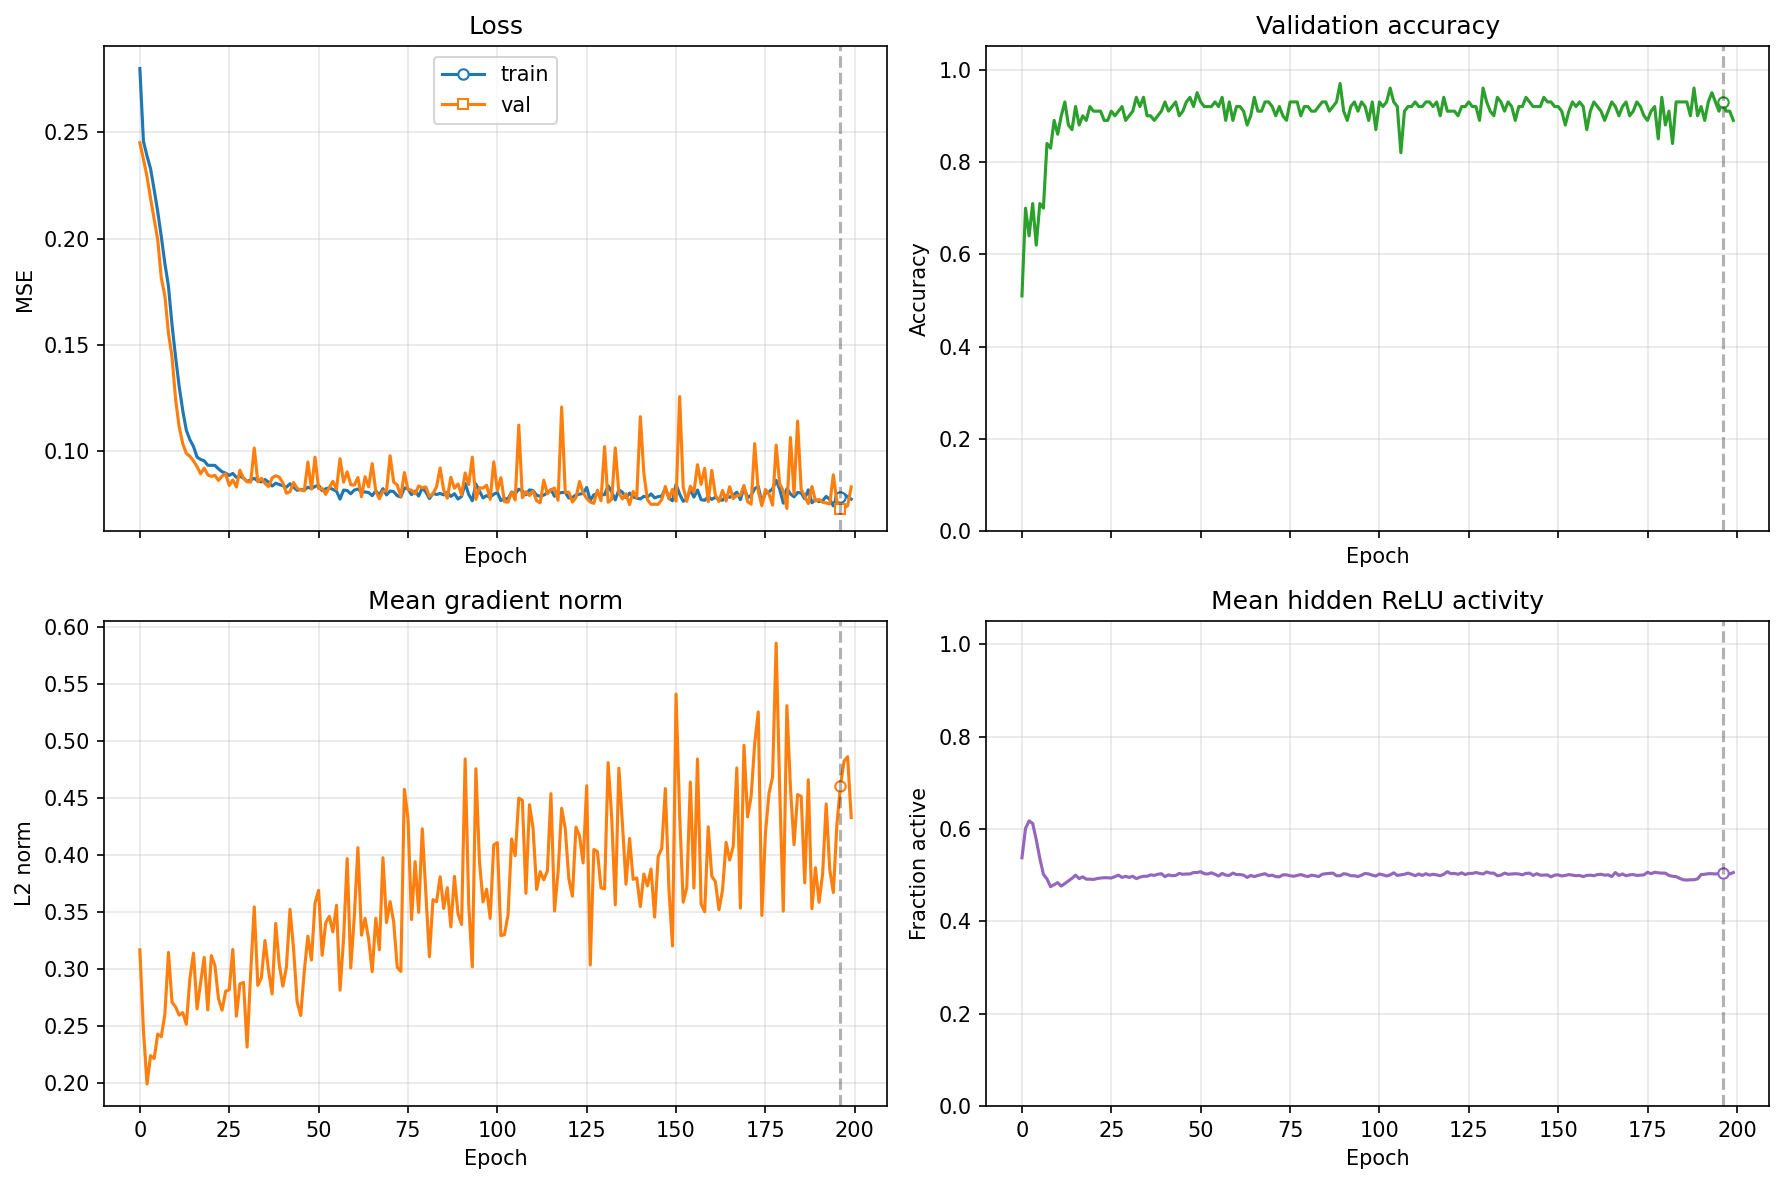
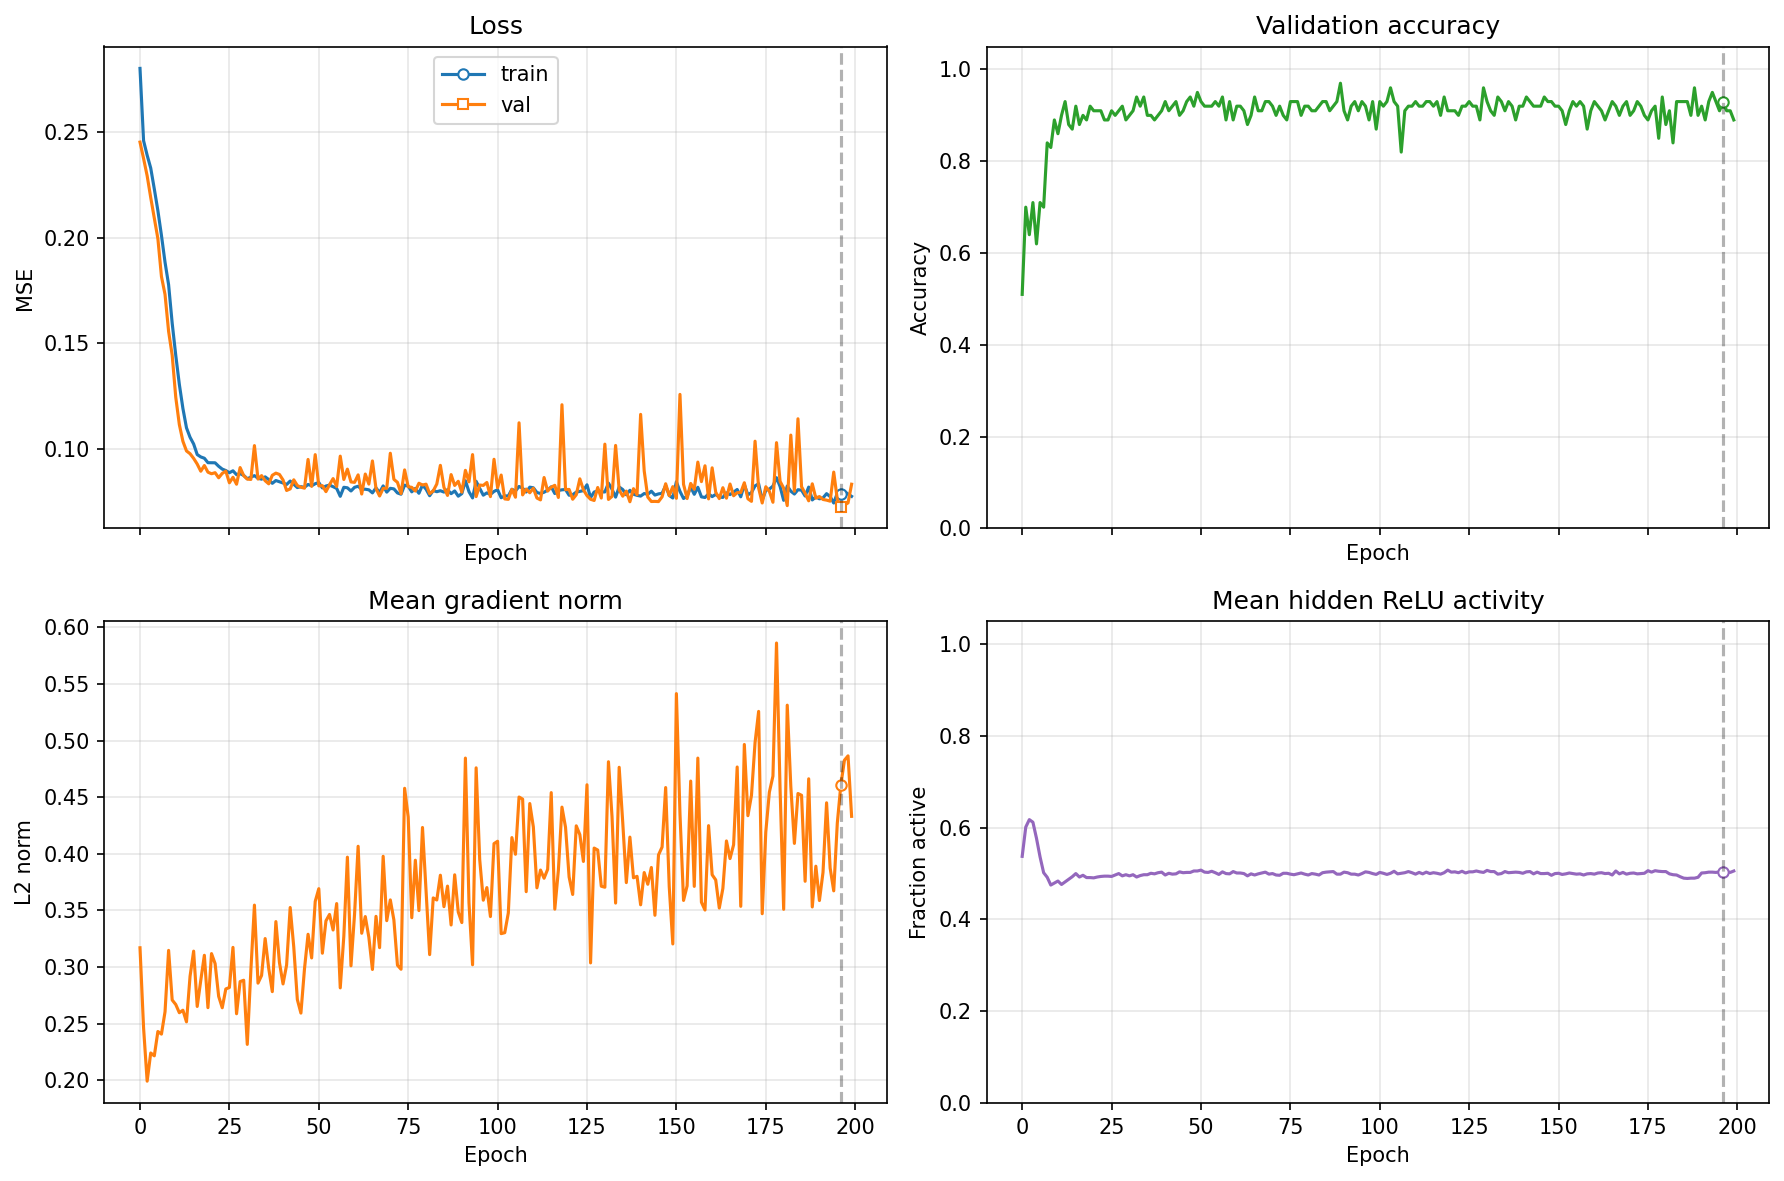
week02: refresh diagnostics figure; README notes Sequential SGD training and 13b measurements

diff --git a/capstones/week02_backprop/README_week02_capstone.md b/capstones/week02_backprop/README_week02_capstone.md
@@ -54,6 +54,8 @@ In the verified master notebook:
 - Torch manual backward parity vs NumPy: max abs diff `3.66e-08`
 - Fixed-batch manual vs autograd agreement: max abs diff `0.0`
 - `nn.Sequential` parity check: max abs diff `0.00e+00`
+- `nn.Sequential` trained with SGD (Section 11b): train loss 0.3735 -> 0.0893 over 80 epochs, val acc 0.89
+- Per-unit ReLU activity and error-location measurement (Section 13b): no dead/always-on units; misclassified points concentrate near the class boundary (median |x1*x2| 0.031 vs 0.241)
 - Best validation loss: `0.072691`
 - Best validation accuracy: `0.9300`
 - Checkpoint smoke test: the best checkpoint reloaded and reproduced the saved validation metrics
